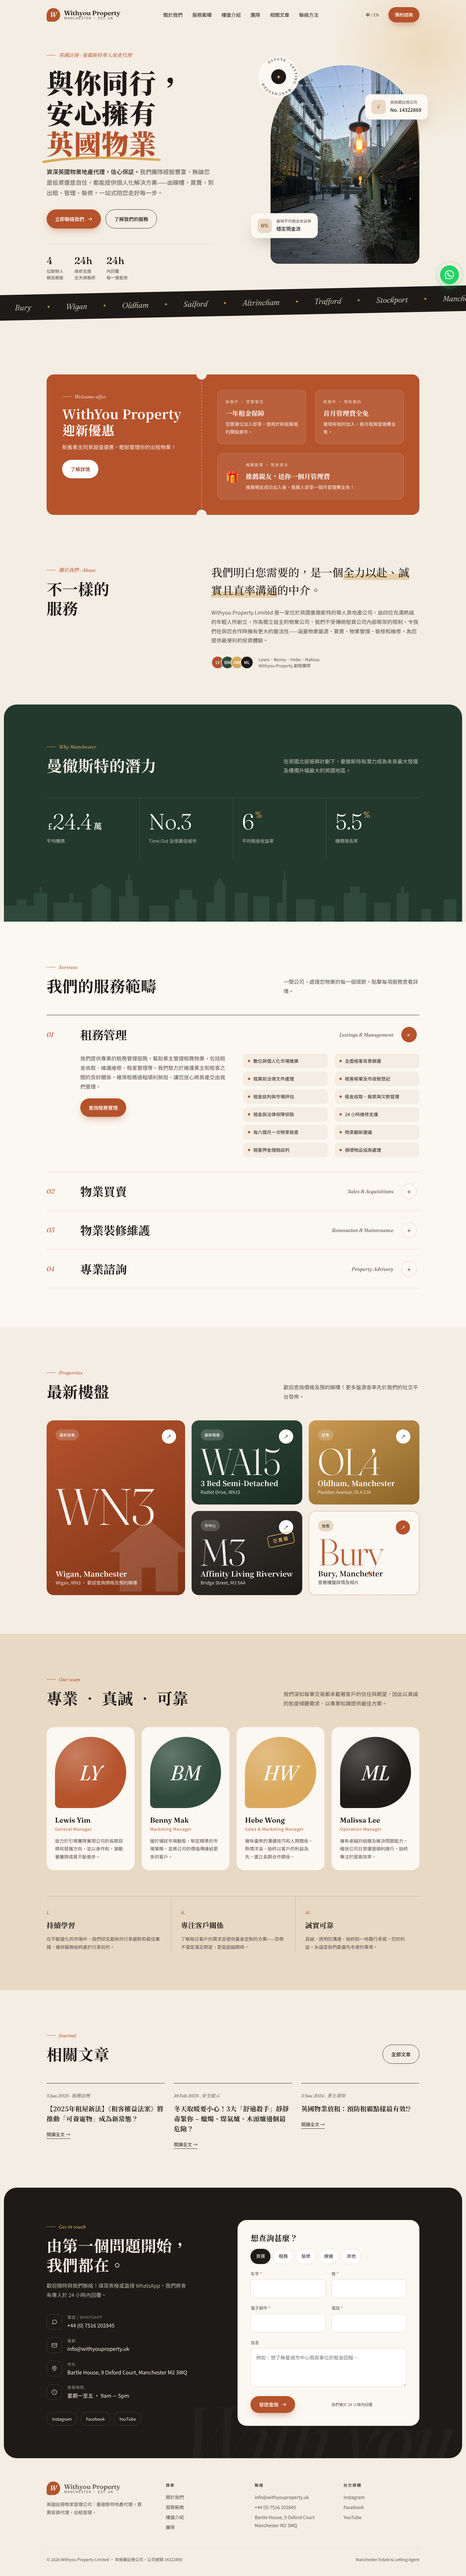
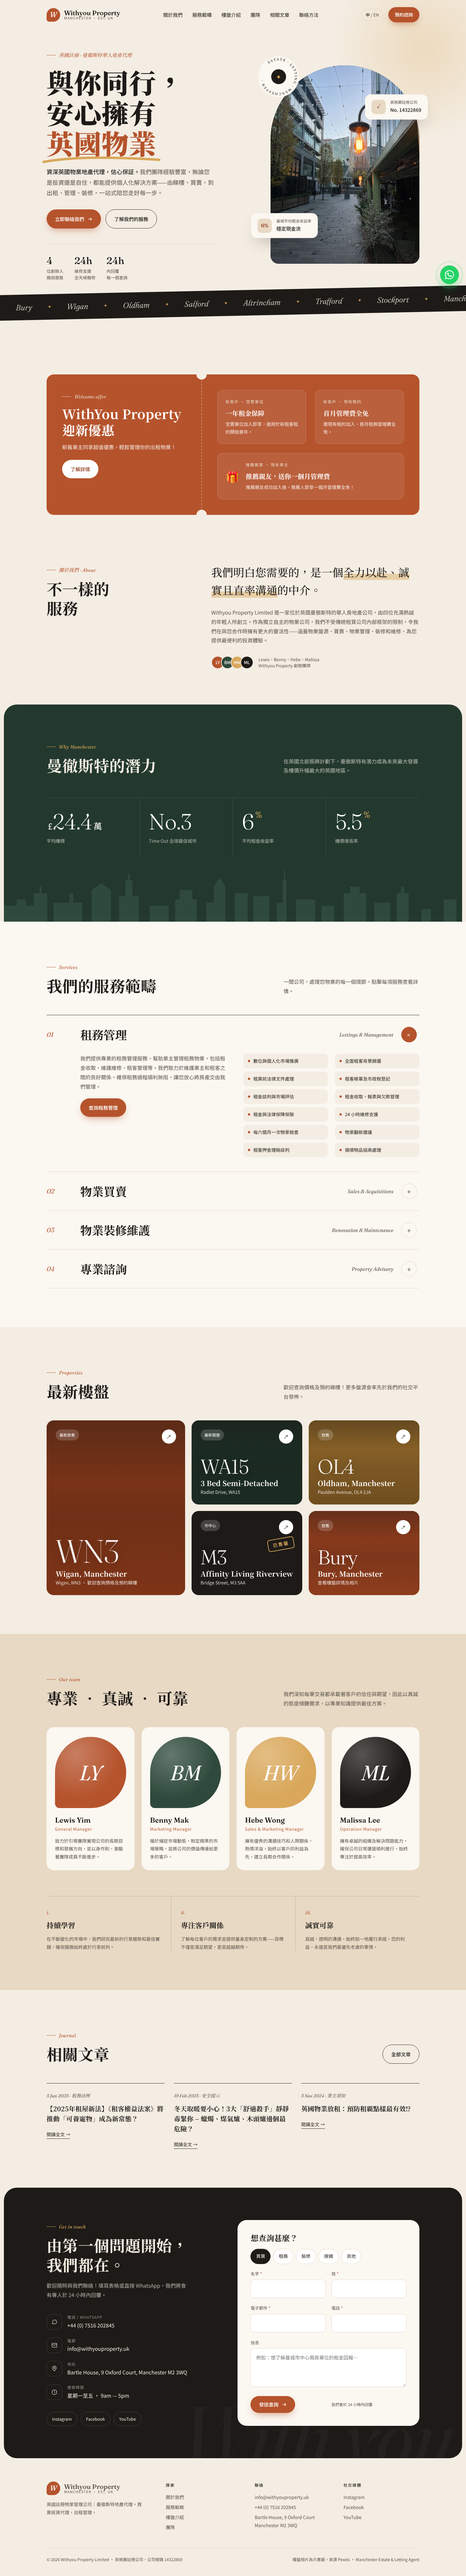
Use Pexels placeholder photos on listing cards
Five free Pexels photos (saved locally under assets/listings/) fill the
listing cards behind a tinted gradient; postcodes are scaled down so the
photo leads. Alt text and footer note mark them as illustrative.

Claude-Session: https://claude.ai/code/session_012xdZwiKkQBZXTXgCLxgR89

Changed region(s): [[0.0938, 0.5296, 0.5625, 0.6231], [0.6562, 0.5296, 0.9062, 0.6231]]

diff --git a/index.html b/index.html
@@ -181,23 +181,26 @@ section{position:relative}
 .card{position:relative;border-radius:var(--radius);overflow:hidden;padding:28px;display:flex;flex-direction:column;justify-content:space-between;color:#fff;transition:transform .4s}
 .card:hover{transform:translateY(-6px)}
 .card.big{grid-row:span 2}
-.card .pc{font-family:var(--display);font-weight:300;font-size:clamp(64px,8vw,120px);line-height:.9;opacity:.92;letter-spacing:-.02em}
-.card.big .pc{font-size:clamp(90px,11vw,170px)}
+.card .pc{display:block;font-family:var(--display);font-weight:300;font-size:clamp(40px,4.4vw,62px);line-height:1;margin-bottom:6px;opacity:.95;letter-spacing:-.02em}
+.card.big .pc{font-size:clamp(60px,7vw,100px)}
 .card h3{font-size:22px;margin-bottom:4px}
 .card p{font-size:14px;opacity:.82;line-height:1.5}
 .card .top{display:flex;justify-content:space-between;align-items:start}
 .card .pill{font-size:12px;padding:6px 12px;border-radius:999px;background:rgba(255,255,255,.18);backdrop-filter:blur(4px)}
 .card .arrow{width:44px;height:44px;border-radius:50%;background:#fff;color:var(--ink);display:grid;place-items:center;transition:transform .3s}
 .card:hover .arrow{transform:rotate(-45deg)}
-.card .house{position:absolute;right:-20px;bottom:-10px;width:62%;opacity:.13;pointer-events:none}
-.c1{background:linear-gradient(150deg,#B5532C,#7E3417)}
-.c2{background:linear-gradient(150deg,#2F4A3C,#1B2C23)}
-.c3{background:linear-gradient(150deg,#C99A52,#8C6326)}
-.c4{background:linear-gradient(150deg,#3A3531,#1D1A17)}
-.c5{background:var(--paper);color:var(--ink);border:1px dashed var(--brick)}
-.c5 .pill{background:var(--sand)}
-.c5 .arrow{background:var(--brick);color:#fff}
-.sold{position:absolute;right:24px;top:70px;transform:rotate(-12deg);border:2px solid var(--gold);color:var(--gold);padding:4px 14px;border-radius:8px;font-weight:700;letter-spacing:.2em;font-size:14px}
+.card .ph{position:absolute;inset:0;width:100%;height:100%;object-fit:cover;z-index:0;transition:transform 1.2s cubic-bezier(.2,.7,.2,1)}
+.card:hover .ph{transform:scale(1.06)}
+.card::after{content:"";position:absolute;inset:0;z-index:1;background:linear-gradient(180deg,rgba(29,26,23,.35) 0%,rgba(29,26,23,.05) 35%,rgba(29,26,23,.15) 55%,var(--tint) 100%)}
+.card>:not(.ph):not(.sold){position:relative;z-index:2}
+.card .sold{z-index:2}
+.card .pc{text-shadow:0 4px 30px rgba(0,0,0,.25)}
+.c1{--tint:rgba(126,52,23,.92);background:#7E3417}
+.c2{--tint:rgba(27,44,35,.92);background:#1B2C23}
+.c3{--tint:rgba(110,76,30,.92);background:#8C6326}
+.c4{--tint:rgba(29,26,23,.92);background:#1D1A17}
+.c5{--tint:rgba(142,60,28,.92);background:#8E3C1C}
+.sold{position:absolute;right:24px;top:84px;transform:rotate(-10deg);border:2px solid var(--gold);color:var(--gold);background:rgba(29,26,23,.6);backdrop-filter:blur(4px);padding:4px 14px;border-radius:8px;font-weight:700;letter-spacing:.2em;font-size:14px}
 
 /* ---------- Team ---------- */
 .team{padding:120px 0;background:var(--sand)}
@@ -551,27 +554,30 @@ footer{padding:60px 0 40px;font-size:14px;color:var(--ink-soft)}
     </div>
     <div class="list-grid">
       <a class="card big c1 reveal" href="https://www.facebook.com/withyoupropertylimited/posts/pfbid02Ut9j3jgkiWoPW7KNEhLexcVy2SeKY9zSXeHomhUJvFHvSDju4AroviqYaCDdP5sEl" target="_blank" rel="noopener">
+        <img class="ph" src="assets/listings/wigan.jpg" alt="Wigan 排屋街景（示意圖）" loading="lazy">
         <div class="top"><span class="pill">最新放售</span><span class="arrow">↗</span></div>
-        <span class="pc">WN3</span>
-        <div><h3>Wigan, Manchester</h3><p>Wigan, WN3 · 歡迎查詢價格及預約睇樓</p></div>
-        <svg class="house" viewBox="0 0 100 100" aria-hidden="true"><path fill="#fff" d="M50 8 4 46h12v46h68V46h12zM42 92V64h16v28z"/></svg>
+        <div><span class="pc">WN3</span><h3>Wigan, Manchester</h3><p>Wigan, WN3 · 歡迎查詢價格及預約睇樓</p></div>
       </a>
       <a class="card c2 reveal d1" href="https://www.facebook.com/withyoupropertylimited/posts/pfbid02DGwcMQDpnZLCQMfS4XfKj6WcJ14q7pDhyifMZWsD3JK8JPrUjWKczseQxNuRo543l" target="_blank" rel="noopener">
+        <img class="ph" src="assets/listings/wa15.jpg" alt="WA15 磚砌獨立屋（示意圖）" loading="lazy">
         <div class="top"><span class="pill">最新租盤</span><span class="arrow">↗</span></div>
         <div><span class="pc">WA15</span><h3>3 Bed Semi-Detached</h3><p>Radlet Drive, WA15</p></div>
       </a>
       <a class="card c3 reveal d2" href="https://www.facebook.com/photo?fbid=621001570736253&set=pcb.621001647402912" target="_blank" rel="noopener">
+        <img class="ph" src="assets/listings/oldham.jpg" alt="Oldham 磚屋（示意圖）" loading="lazy">
         <div class="top"><span class="pill">放售</span><span class="arrow">↗</span></div>
         <div><span class="pc">OL4</span><h3>Oldham, Manchester</h3><p>Paulden Avenue, OL4 2JA</p></div>
       </a>
       <a class="card c4 reveal d1" href="https://withyouproperty.uk/affinity-living-riverview-manchester/">
+        <img class="ph" src="assets/listings/riverview.jpg" alt="市中心現代住宅大廈（示意圖）" loading="lazy">
         <div class="top"><span class="pill">市中心</span><span class="arrow">↗</span></div>
         <span class="sold">已售罄</span>
         <div><span class="pc">M3</span><h3>Affinity Living Riverview</h3><p>Bridge Street, M3 5AA</p></div>
       </a>
       <a class="card c5 reveal d2" href="https://www.facebook.com/withyoupropertylimited/posts/pfbid02E228CyHquuCmTk8mT6nfvvrRt8LjGma7f9Jy3Co4MeXZHy2uAyyuSDJGnrHGsNHYl" target="_blank" rel="noopener">
+        <img class="ph" src="assets/listings/bury.jpg" alt="曼徹斯特紅磚建築（示意圖）" loading="lazy">
         <div class="top"><span class="pill">放售</span><span class="arrow">↗</span></div>
-        <div><span class="pc" style="color:var(--brick)">Bury</span><h3>Bury, Manchester</h3><p>查看樓盤詳情及相片</p></div>
+        <div><span class="pc">Bury</span><h3>Bury, Manchester</h3><p>查看樓盤詳情及相片</p></div>
       </a>
     </div>
   </div>
@@ -710,7 +716,7 @@ footer{padding:60px 0 40px;font-size:14px;color:var(--ink-soft)}
     </div>
     <div class="legal">
       <span>© <span id="yr">2026</span> Withyou Property Limited · 英格蘭註冊公司，公司號碼 14322869</span>
-      <span>Manchester Estate &amp; Letting Agent</span>
+      <span>樓盤相片為示意圖，來源 <a href="https://www.pexels.com" target="_blank" rel="noopener">Pexels</a> · Manchester Estate &amp; Letting Agent</span>
     </div>
   </div>
 </footer>
